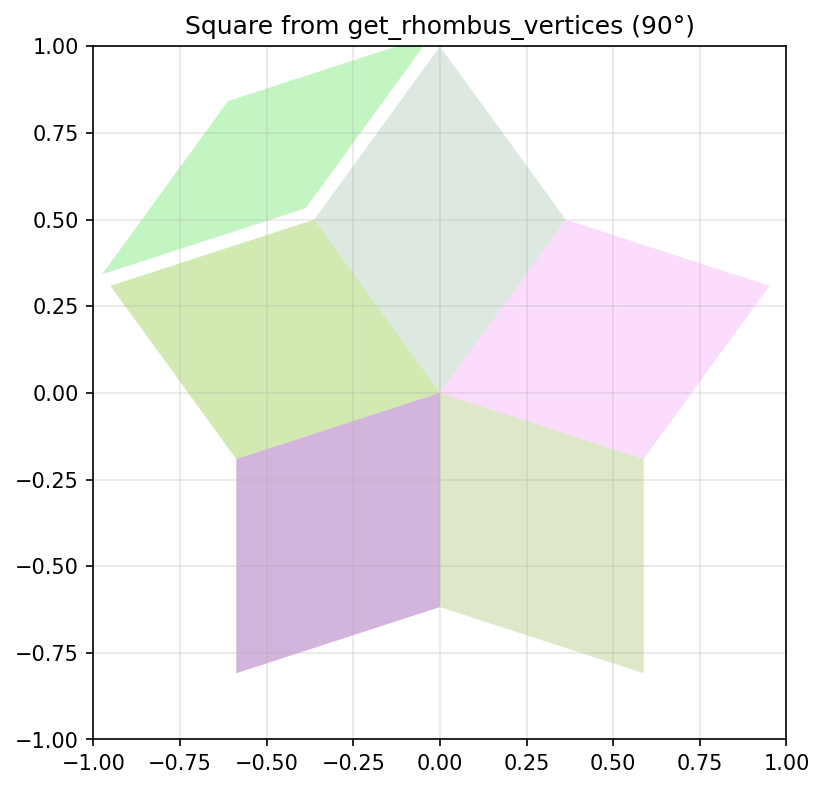
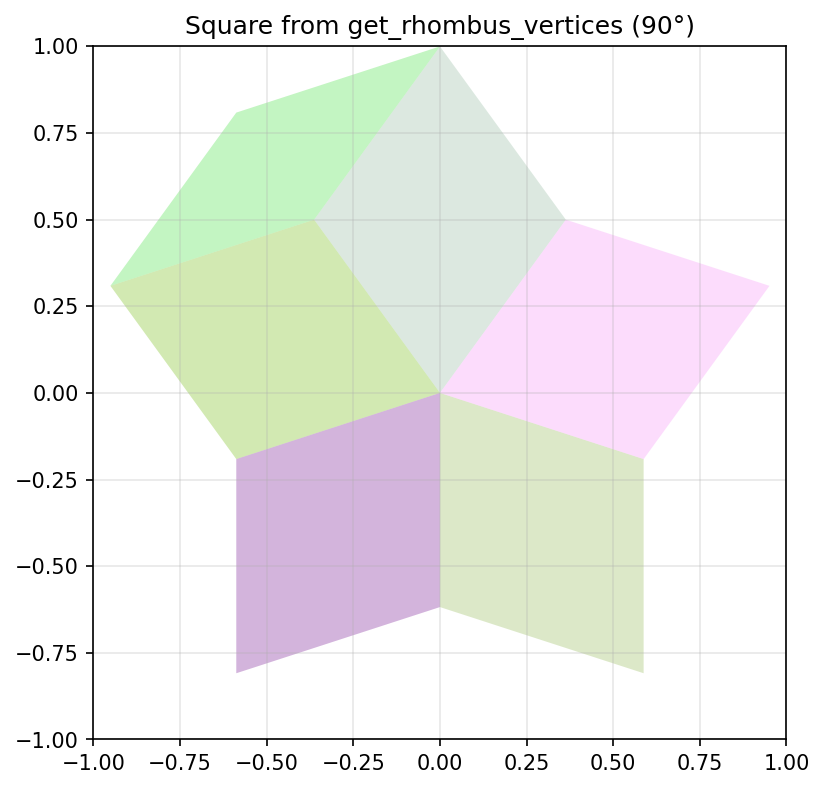
nice

Changed region(s): [[0.1214, 0.0608, 0.5461, 0.365]]

diff --git a/test_main.py b/test_main.py
@@ -93,7 +93,11 @@ def test_draw_square():
     dart_long_length = 2 * edge_length * np.cos(np.radians(st_acute_angle / 2))  # long edge of dart
     dart_sf = dart_long_length * scale_factor
 
-    first_dart = get_rhombus_vertices((0.0, 0.85), 36, 144, scale_factor=dart_sf, initial_rotation=90)
+    half_width_dart = edge_length * np.sin(np.radians(st_acute_angle / 2))
+    dart_center = edge_length + half_width_dart
+    print(f"dart_center: {dart_center}")
+
+    first_dart = get_rhombus_vertices((0.0, dart_center), 36, 144, scale_factor=dart_sf, initial_rotation=90)
 
     print(f"Edge length for rhombus with 108° acute angle and unit height: {edge_length}")
 
